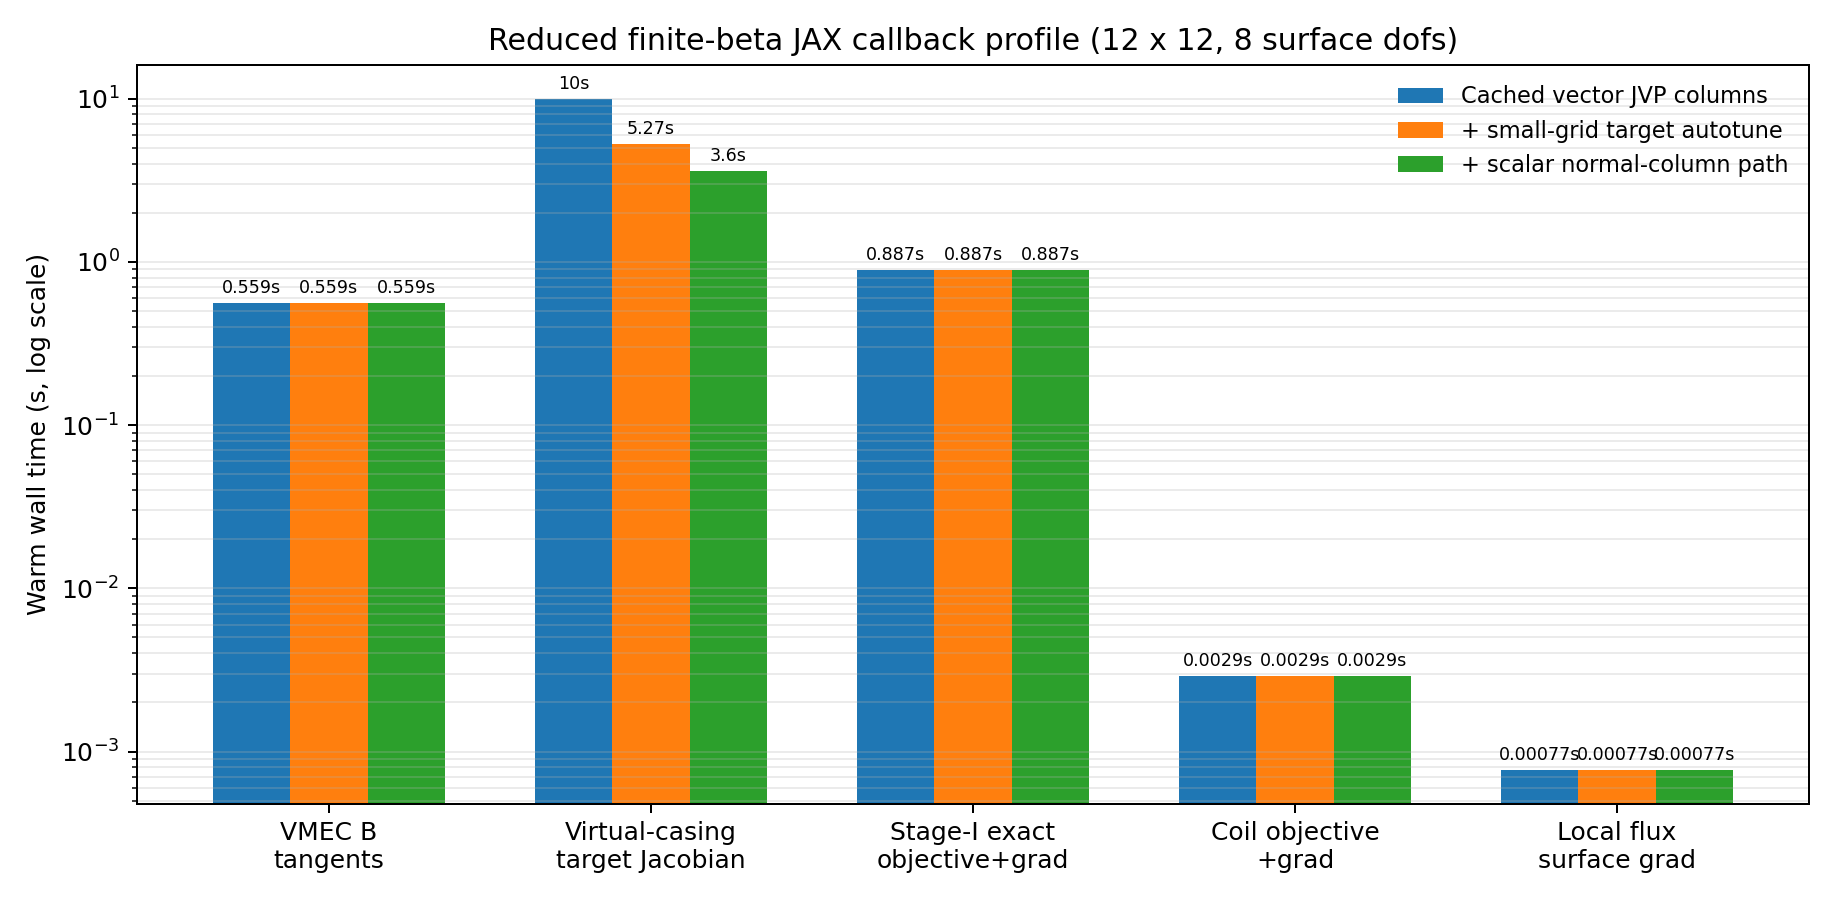
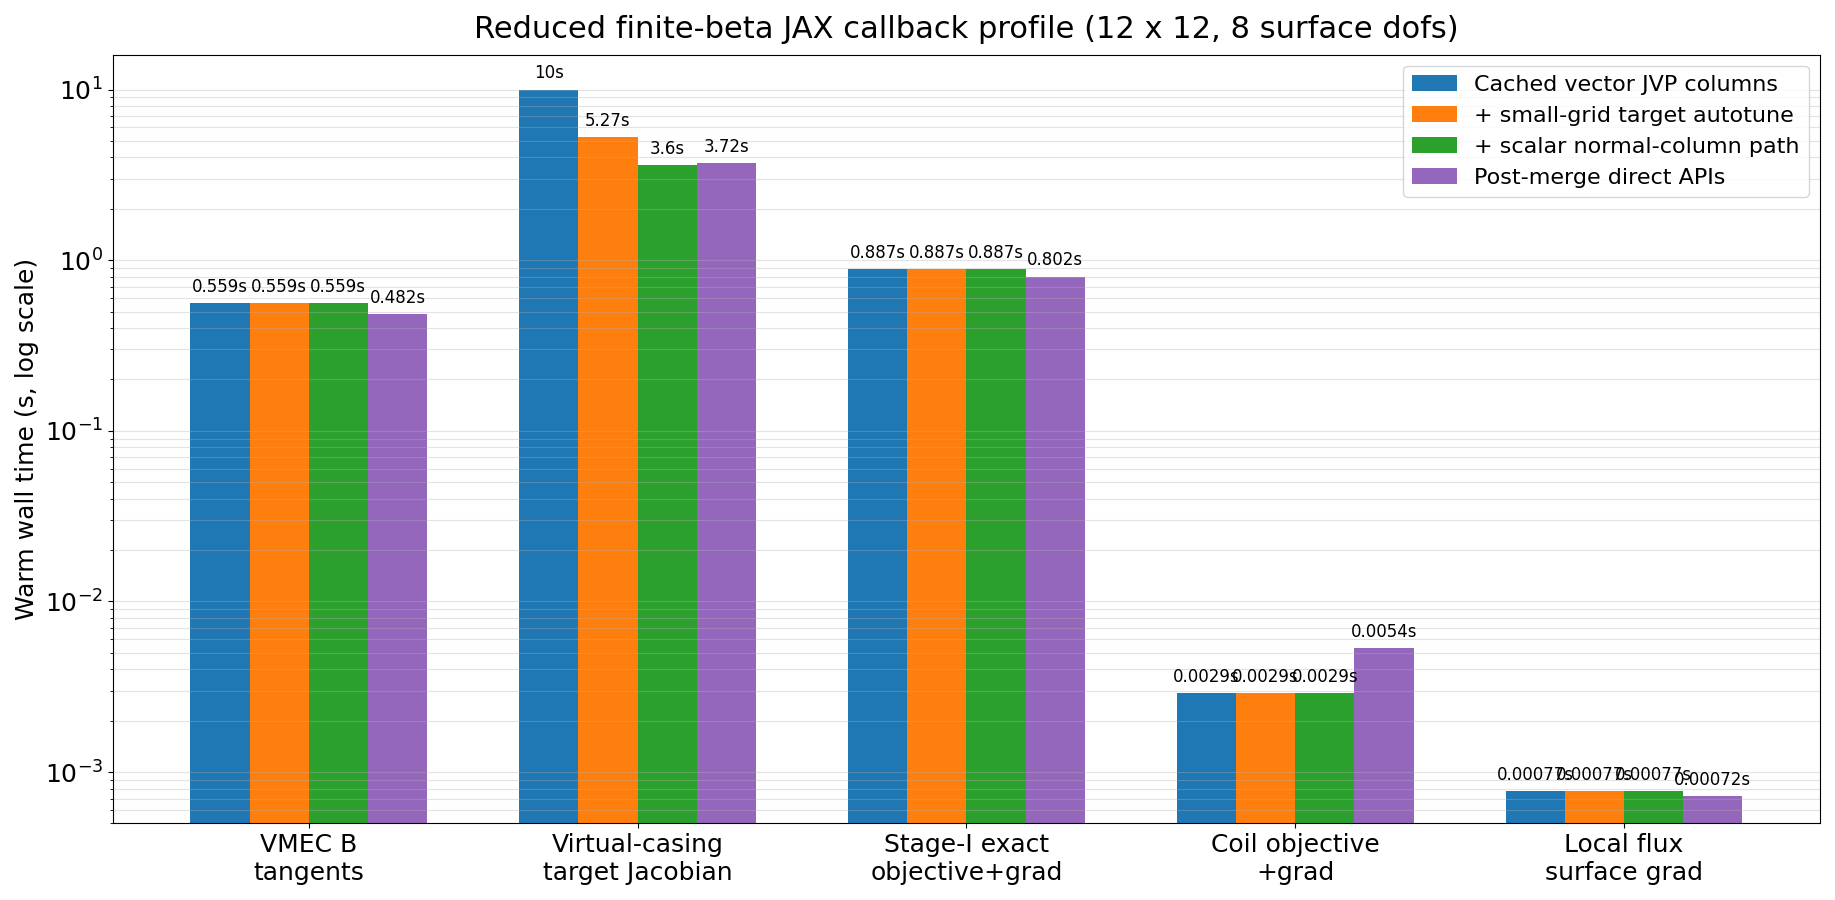
Add finite-beta JAX smoke coverage

diff --git a/tests/mhd/test_jax_examples.py b/tests/mhd/test_jax_examples.py
@@ -1,11 +1,20 @@
 import os
 import py_compile
+import shutil
+import subprocess
+import sys
+import time
 import unittest
 
 try:
     import vmec_jax
 except ImportError:
     vmec_jax = None
+
+try:
+    import virtual_casing_jax
+except ImportError:
+    virtual_casing_jax = None
 
 try:
     from simsopt.mhd import VmecJax
@@ -30,6 +39,50 @@ class JaxExamplesTests(unittest.TestCase):
         for example in EXAMPLES:
             with self.subTest(example=example):
                 py_compile.compile(os.path.join(ROOT, example), doraise=True)
+
+    @unittest.skipIf(
+        vmec_jax is None or virtual_casing_jax is None,
+        "vmec_jax or virtual_casing_jax not found",
+    )
+    def test_single_stage_finite_beta_jax_ci_smoke(self):
+        example = os.path.join(
+            ROOT,
+            "examples",
+            "3_Advanced",
+            "single_stage_optimization_finite_beta_jax.py",
+        )
+        output_dir = os.path.join(
+            ROOT,
+            "examples",
+            "3_Advanced",
+            "optimization_QH_finitebeta_jax",
+        )
+        shutil.rmtree(output_dir, ignore_errors=True)
+        env = os.environ.copy()
+        env["CI"] = "true"
+        env["MPLBACKEND"] = "Agg"
+        start = time.perf_counter()
+        try:
+            result = subprocess.run(
+                [sys.executable, example],
+                cwd=ROOT,
+                env=env,
+                capture_output=True,
+                text=True,
+                timeout=60,
+            )
+        finally:
+            shutil.rmtree(output_dir, ignore_errors=True)
+        elapsed = time.perf_counter() - start
+        if result.returncode != 0:
+            self.fail(
+                "single_stage_optimization_finite_beta_jax.py failed\n"
+                f"stdout:\n{result.stdout}\n"
+                f"stderr:\n{result.stderr}"
+            )
+        self.assertIn("CI single-stage check:", result.stdout)
+        self.assertNotIn("Exception caught", result.stdout)
+        self.assertLess(elapsed, 60.0)
 
     @unittest.skipIf(vmec_jax is None or VmecJax is None, "vmec_jax not found")
     def test_single_stage_exact_specs_match_surface_dofs(self):

diff --git a/docs/source/example_jax_mhd.rst b/docs/source/example_jax_mhd.rst
@@ -179,9 +179,16 @@ this reduced case, while preserving agreement at the ``1e-12`` level in the
 JVP columns. Routing SIMSOPT through the upstream scalar normal-field
 JVP-column helper reduces the same public helper to about ``3.6`` seconds and
 keeps the target Jacobian within ``3e-13`` of the previous projected-vector
-path. The virtual-casing target-Jacobian assembly remains the dominant
-component, but the remaining cost is now concentrated in the geometry-tangent
-singular correction rather than VMEC-JAX boundary-field replay.
+path. After merging the upstream JAX APIs and removing the SIMSOPT fallback
+assembly, the same reduced profile is essentially unchanged: the warm
+post-merge medians are about ``0.48`` seconds for VMEC-JAX boundary-field
+tangent columns, ``3.72`` seconds for the virtual-casing target Jacobian,
+``0.80`` seconds for the stage-I exact objective and gradient, and
+sub-millisecond for the local flux surface-gradient contraction. The
+virtual-casing target-Jacobian assembly remains the dominant component, but
+the remaining cost is now concentrated in the geometry-tangent singular
+correction rather than VMEC-JAX boundary-field replay or SIMSOPT compatibility
+code.
 
 Testing
 -------
